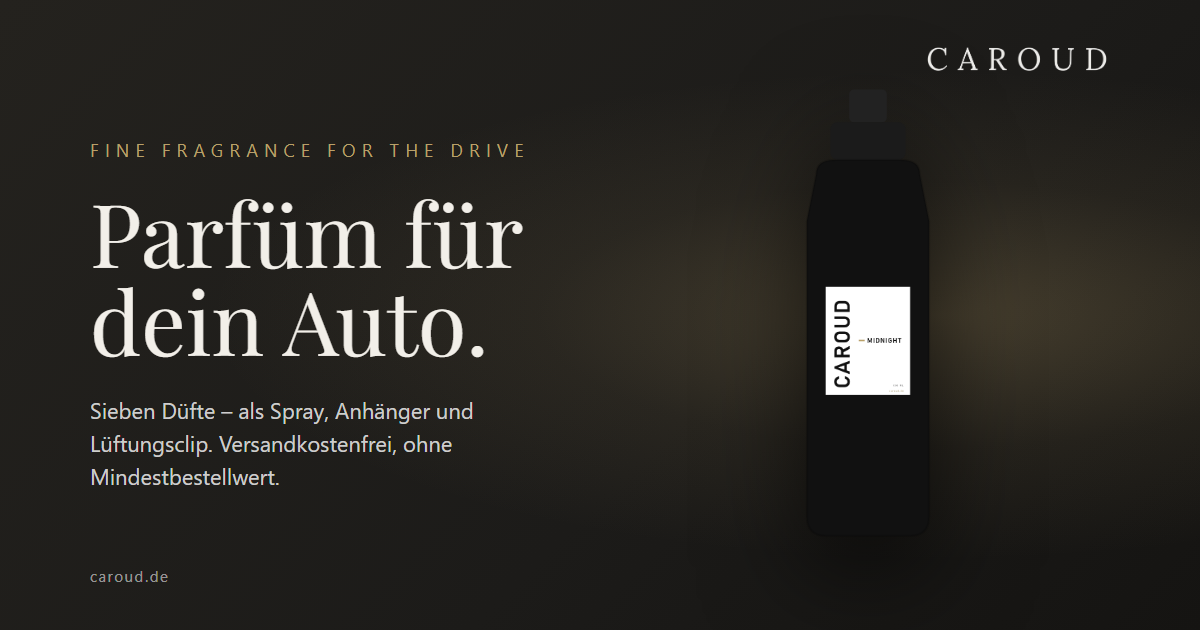
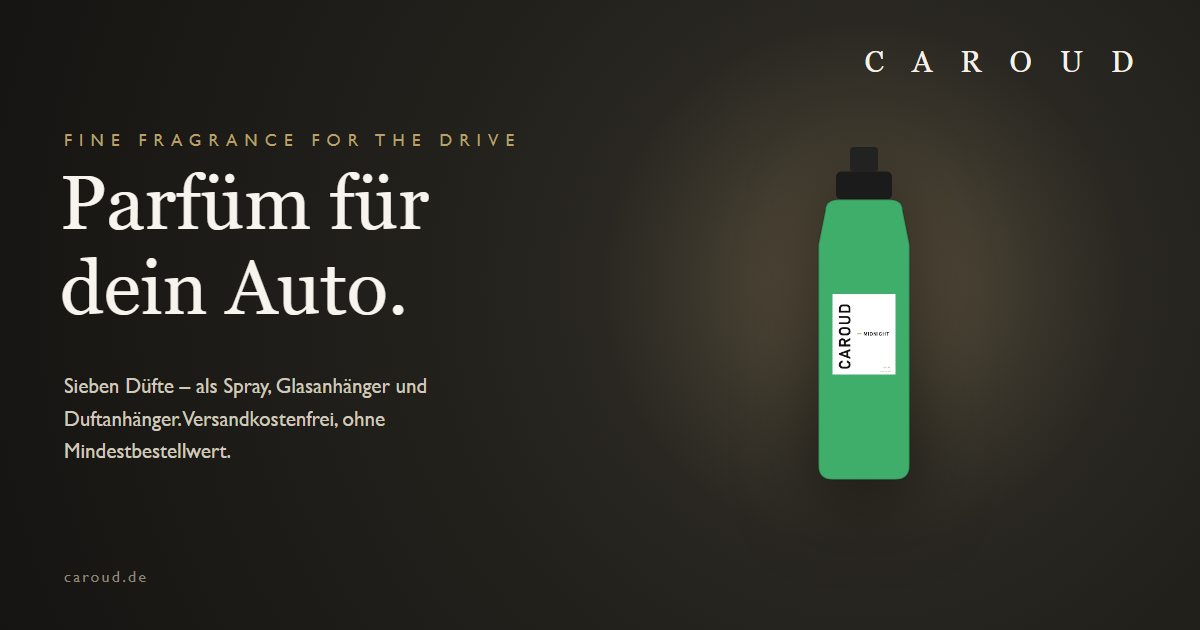
Neues og-Vorschaubild: Clip-Erwaehnung raus, gruene Midnight-Flasche, aktuelle Linien (v3)

diff --git a/index.html b/index.html
@@ -15,7 +15,7 @@
   <meta property="og:url" content="https://caroud.de/">
   <meta property="og:title" content="Caroud – Premium Autodüfte">
   <meta property="og:description" content="Duftsprays, Glasanhänger &amp; Duftanhänger im edlen Schwarz-Gold-Design. Fine Fragrance for the Drive – immer versandkostenfrei.">
-  <meta property="og:image" content="https://caroud.de/img/og-image.png?v=2">
+  <meta property="og:image" content="https://caroud.de/img/og-image.png?v=3">
   <meta property="og:image:width" content="1200">
   <meta property="og:image:height" content="630">
   <meta property="og:image:alt" content="Caroud – Fine Fragrance for the Drive">
@@ -24,7 +24,7 @@
   <meta name="twitter:card" content="summary_large_image">
   <meta name="twitter:title" content="Caroud – Premium Autodüfte">
   <meta name="twitter:description" content="Duftsprays, Glasanhänger &amp; Duftanhänger im edlen Schwarz-Gold-Design. Immer versandkostenfrei.">
-  <meta name="twitter:image" content="https://caroud.de/img/og-image.png?v=2">
+  <meta name="twitter:image" content="https://caroud.de/img/og-image.png?v=3">
 
   <link rel="icon" type="image/png" href="img/favicon.png">
   <!-- Überschriftenschrift vorladen, damit der Hero-Titel nicht erst in Georgia aufblitzt -->
@@ -43,7 +43,7 @@
         "name": "Caroud",
         "url": "https://caroud.de/",
         "logo": "https://caroud.de/img/logo-full.png",
-        "image": "https://caroud.de/img/og-image.png?v=2",
+        "image": "https://caroud.de/img/og-image.png?v=3",
         "slogan": "Fine Fragrance for the Drive",
         "description": "Premium-Autodüfte aus Deutschland: Duftsprays, Glasanhänger und Duftanhänger.",
         "address": {
